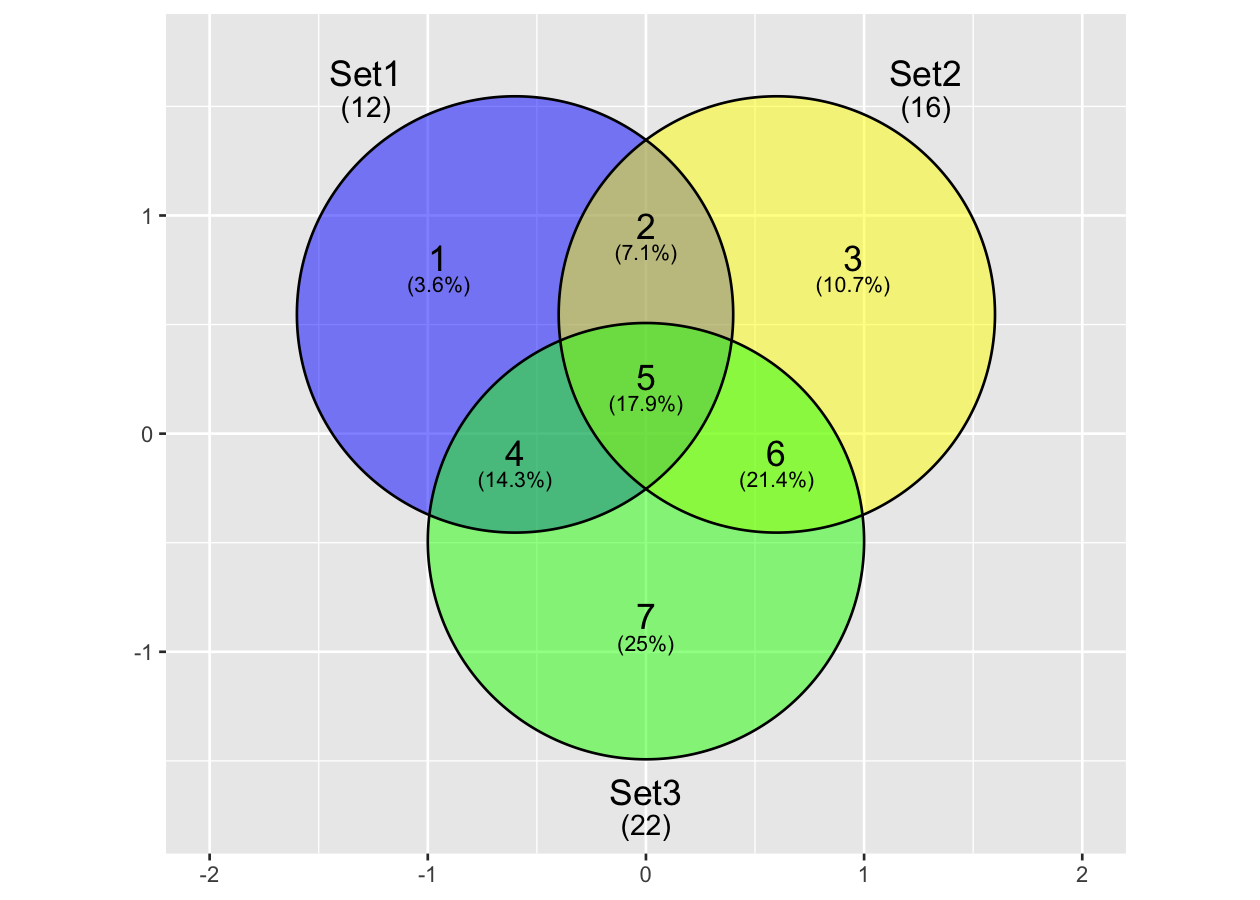
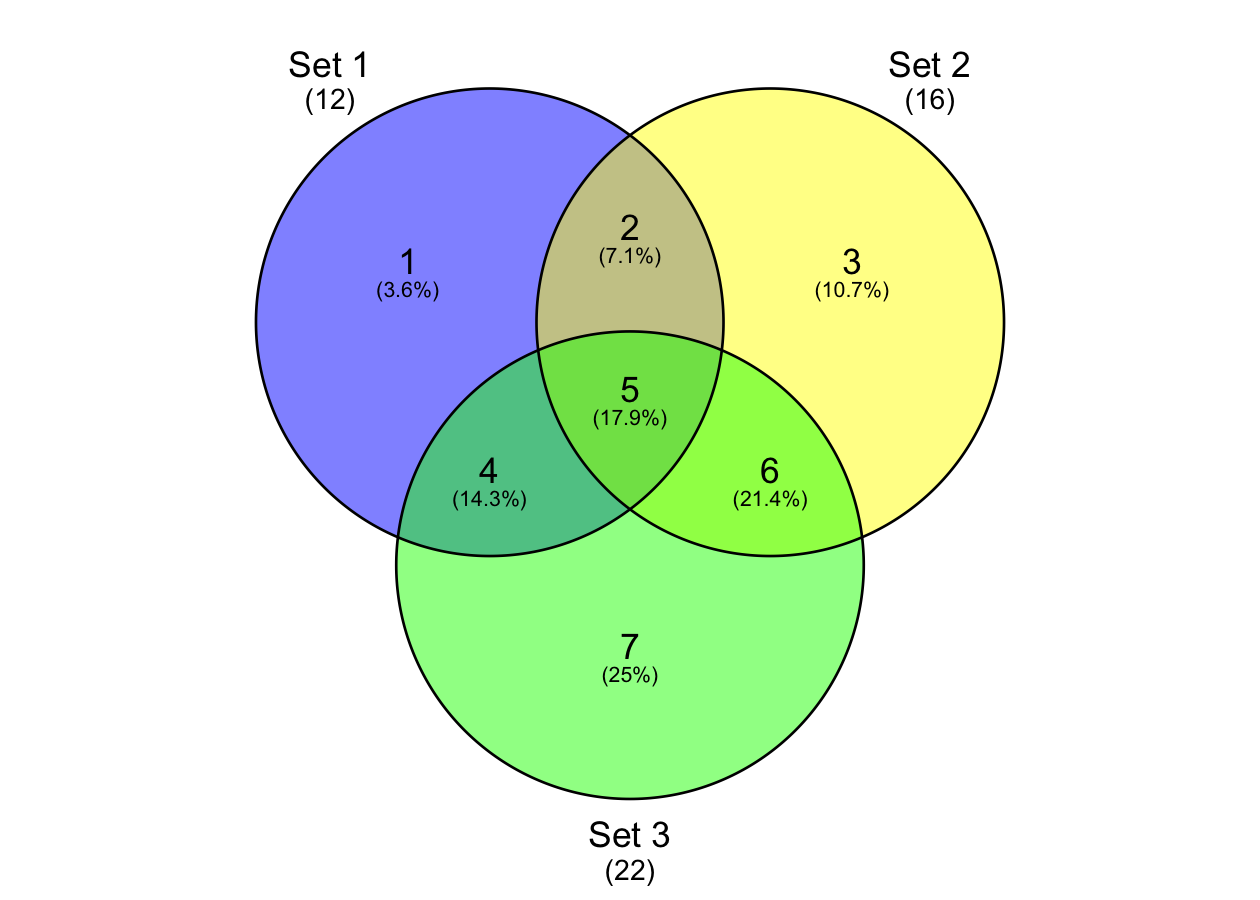
Update README

diff --git a/README.md b/README.md
@@ -7,11 +7,12 @@
 <!-- badges: end -->
 
 Another implementation of Venn diagrams in
-[ggplot2](https://github.com/tidyverse/ggplot2/).
+[ggplot2](https://github.com/tidyverse/ggplot2/). Simple functions to
+generate 2-4 way Venn diagrams using ‘ggplot2’ with minimal
+dependencies.
 
-Combines the good parts of
-[ggvenn](https://github.com/yanlinlin82/ggvenn) and
-[ggVennDiagram](https://github.com/gaospecial/ggVennDiagram).
+Takes the good parts of [ggvenn](https://github.com/yanlinlin82/ggvenn)
+and [ggVennDiagram](https://github.com/gaospecial/ggVennDiagram).
 
 ``` r
 library(ggvd)
@@ -19,52 +20,75 @@ library(ggvd)
 ```
 
 ``` r
-# 2 way Venn discrete
-circles2 <- tibble::tibble(
-  sets = factor(c("Set 1", "Set 2")),
-  fill = factor(c("blue", "yellow")),
-  elements = list(c(1, 2:3), c(2:3, 4:6))
-)
+# 2 way Venn
+ls2 <- list("Set 1" = c(1, 2:3), "Set 2" = c(2:3, 4:6))
+venn2 <- prepare_venn(ls2)
+venn2$fill = factor(c("blue", "yellow"))
 
+# discrete
 ggplot() +
-  geom_venn(aes(fill = fill, set_names = sets, elements = elements),
-            data = circles2, type = "discrete", set_total = TRUE) +
-  scale_fill_identity()
+  geom_venn(aes(set_names = sets, elements = elements, fill = fill),
+            data = venn2, type = "discrete", set_total = TRUE) +
+  scale_fill_identity() + 
+  theme_void()
+
+# continuous
+ggplot() +
+  geom_venn(aes(set_names = sets, elements = elements, fill = count),
+            data = venn2, type = "continuous", set_total = TRUE) +
+  scale_fill_gradient(low = "white", high = "red") + 
+  theme_void()
 ```
 
-![](figs/discrete-venn2-1.png)<!-- -->
+<img src="figs/discrete-venn2-1.png" width="50%" /><img src="figs/discrete-venn2-2.png" width="50%" />
 
 ``` r
-# 3 way Venn discrete
-circles3 <- tibble::tibble(
-  sets = factor(c("Set1", "Set2", "Set3")),
-  fill = factor(c("blue", "yellow", "green")),
-  elements = list(c(1,2:3,7:10,11:15), c(2:3,4:6,11:15,16:21), c(7:10,11:15,16:21,22:28))
-)
+# 3 way Venn
+ls3 <- list("Set 1" = c(1,2:3,7:10,11:15), 
+            "Set 2" = c(2:3,4:6,11:15,16:21), 
+            "Set 3" = c(7:10,11:15,16:21,22:28))
+venn3 <- prepare_venn(ls3)
+venn3$fill = factor(c("blue", "yellow", "green"))
 
+# discrete
 ggplot() +
-  geom_venn(aes(fill = fill, set_names = sets, elements = elements),
-            data = circles3, type = "discrete", set_total = TRUE) +
-  scale_fill_identity()
+  geom_venn(aes(set_names = sets, elements = elements, fill = fill),
+            data = venn3, type = "discrete", set_total = TRUE) +
+  scale_fill_identity() + 
+  theme_void()
+
+# continuous
+ggplot() +
+  geom_venn(aes(set_names = sets, elements = elements, fill = count),
+            data = venn3, type = "continuous", set_total = TRUE) +
+  scale_fill_gradient(low = "white", high = "red") + 
+  theme_void()
 ```
 
-![](figs/discrete-venn3-1.png)<!-- -->
+<img src="figs/discrete-venn3-1.png" width="50%" /><img src="figs/discrete-venn3-2.png" width="50%" />
 
 ``` r
-# 4 way Venn discrete
-circles4 <- tibble::tibble(
-  sets = factor(c("Set 1", "Set 2", "Set 3", "Set 4")),
-  fill = factor(c("blue", "yellow", "green", "red")),
-  elements = list(c(1,11:15,29:36,46:55,56:66,67:78,79:91,106:120),
-                  c(2:3,11:15,16:21,29:36,37:45,46:55,79:91,92:105),
-                  c(4:6,16:21,22:28,29:36,37:45,46:55,56:66,67:78),
-                  c(7:10,22:28,37:45,46:55,67:78,79:91,92:105,106:120))
-)
+# 4 way Venn
+ls4 <- list("Set 1" = c(1,11:15,29:36,46:55,56:66,67:78,79:91,106:120),
+            "Set 2" = c(2:3,11:15,16:21,29:36,37:45,46:55,79:91,92:105),
+            "Set 3" = c(4:6,16:21,22:28,29:36,37:45,46:55,56:66,67:78),
+            "Set 4" = c(7:10,22:28,37:45,46:55,67:78,79:91,92:105,106:120))
+venn4 <- prepare_venn(ls4)
+venn4$fill = factor(c("blue", "yellow", "green", "red"))
 
+# discrete
 ggplot() +
-  geom_venn(aes(fill = fill, set_names = sets, elements = elements),
-            data = circles4, type = "discrete", set_total = TRUE) +
-  scale_fill_identity()
+  geom_venn(aes(set_names = sets, elements = elements, fill = fill),
+            data = venn4, type = "discrete", set_total = TRUE) +
+  scale_fill_identity() + 
+  theme_void()
+
+# continuous
+ggplot() +
+  geom_venn(aes(set_names = sets, elements = elements, fill = count),
+            data = venn4, type = "continuous", set_total = TRUE) +
+  scale_fill_gradient(low = "white", high = "red") + 
+  theme_void()
 ```
 
-![](figs/discrete-venn4-1.png)<!-- -->
+<img src="figs/discrete-venn4-1.png" width="50%" /><img src="figs/discrete-venn4-2.png" width="50%" />
